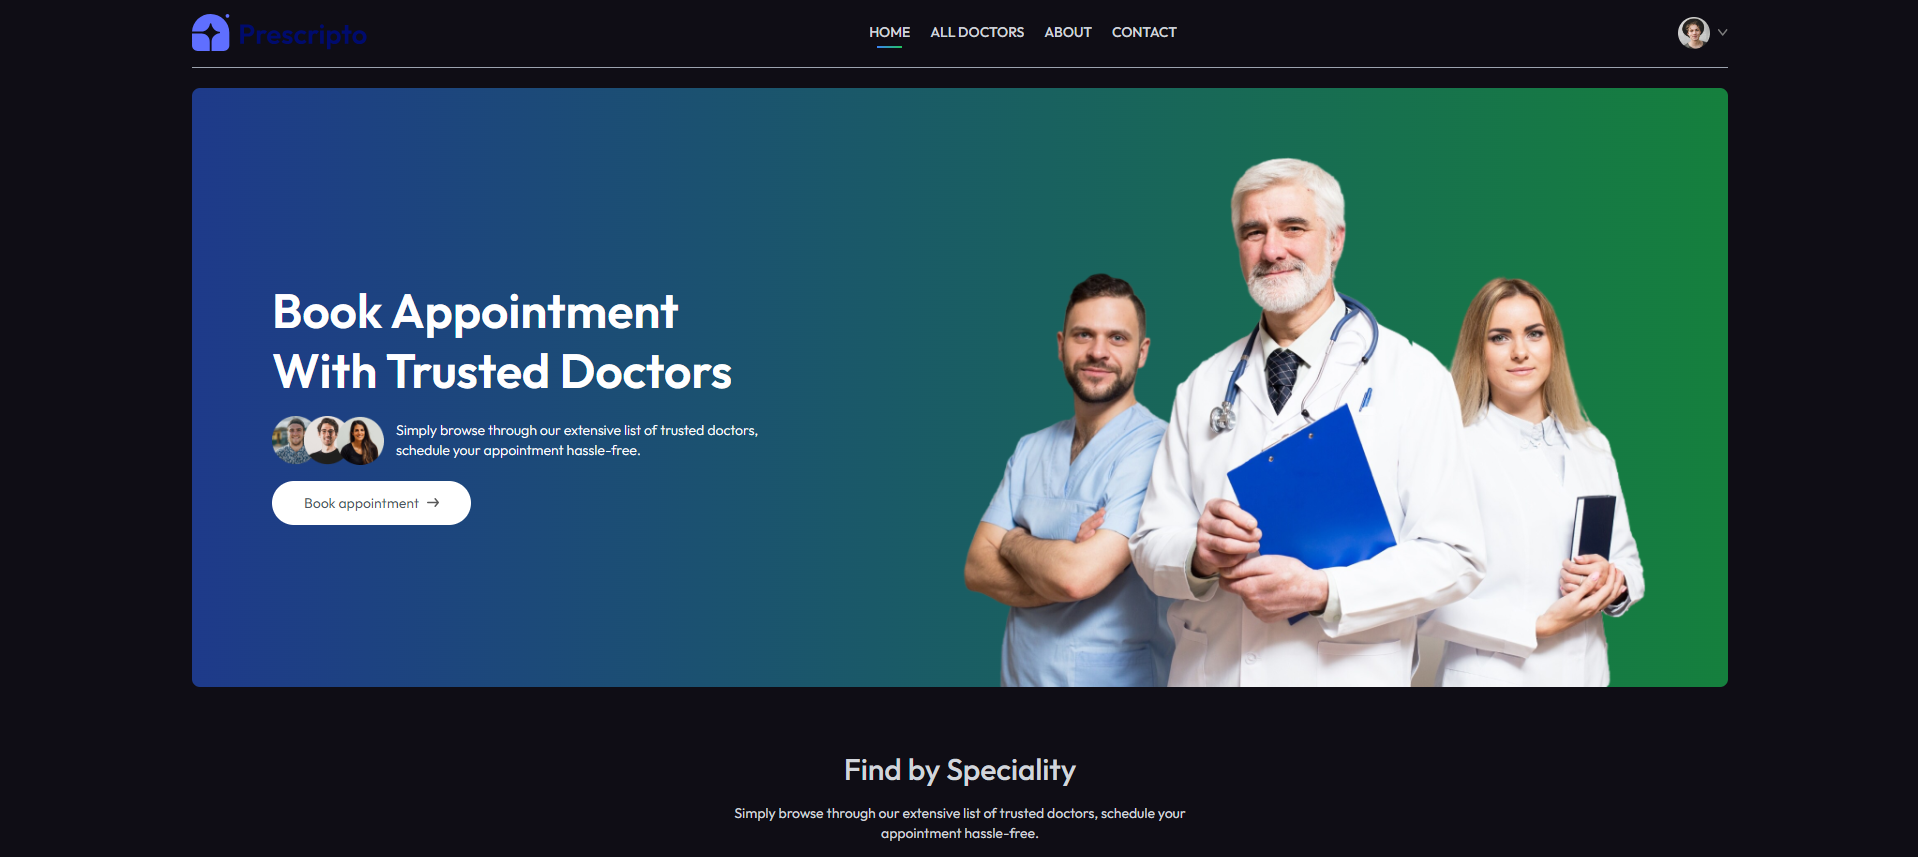
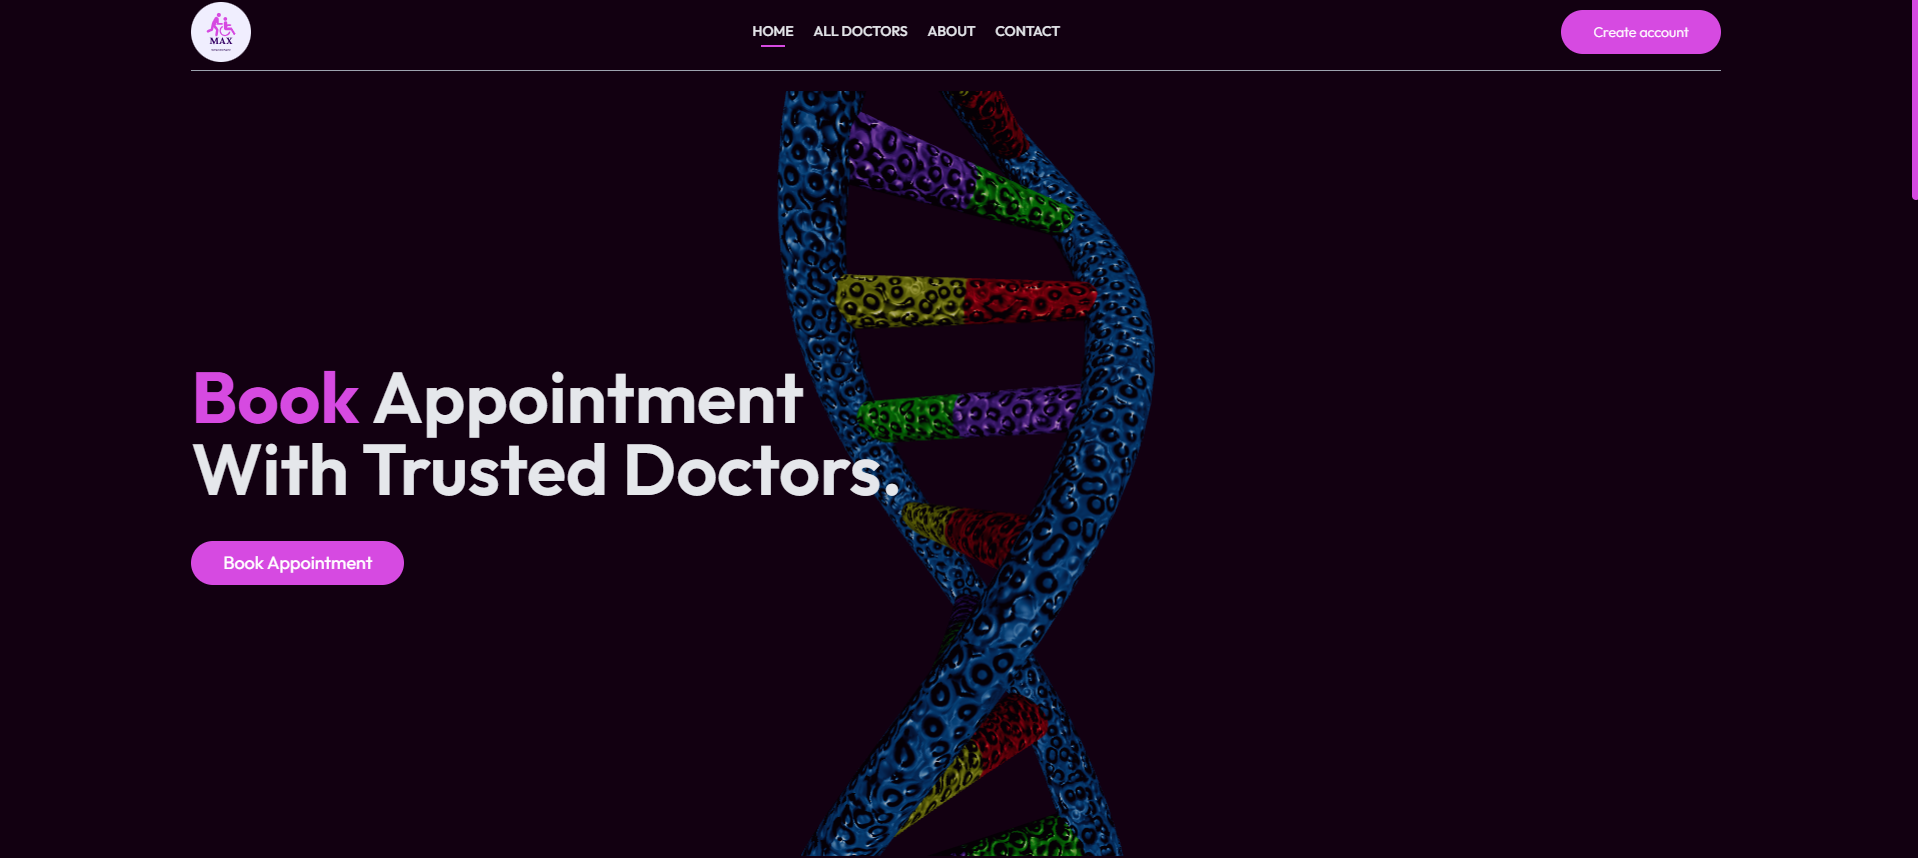
change the project's link and image

diff --git a/src/constants/index.js b/src/constants/index.js
@@ -201,13 +201,13 @@ const projects = [
                 color: "green-text-gradient",
             },
             {
-                name: "tailwind",
+                name: "3js",
                 color: "pink-text-gradient",
             },
         ],
         image: hospital,
-        source_code_link: "https://github.com/ShivamChikara1611/hospital-management",
-        live_link: "https://hospital-management.shivamchikara.xyz/",
+        source_code_link: "https://github.com/ShivamChikara1611/hospital-3js",
+        live_link: "https://www.max-hospital.shivamchikara.xyz/",
     },
     {
         name: "Jobby App",
